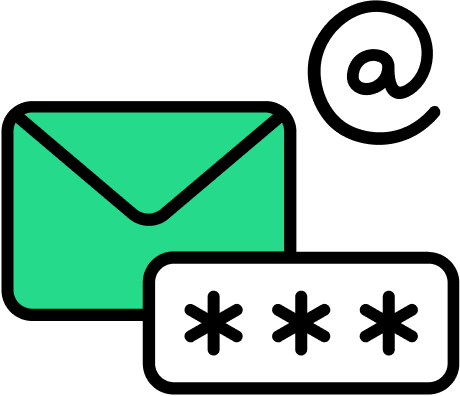
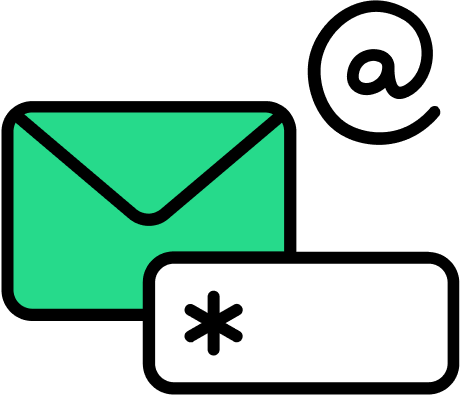
Fix knip

Changed region(s): [[0.7609, 0.7273, 0.913, 0.9091], [0.5783, 0.7273, 0.7304, 0.9091]]

diff --git a/src/keylessBackup/SignInWithEmail.tsx b/src/keylessBackup/SignInWithEmail.tsx
@@ -12,7 +12,7 @@ import Button, { BtnSizes, BtnTypes } from 'src/components/Button'
 import CustomHeader from 'src/components/header/CustomHeader'
 import AppleIcon from 'src/icons/Apple'
 import GoogleIcon from 'src/icons/Google'
-import { email2 } from 'src/images/Images'
+import { email } from 'src/images/Images'
 import KeylessBackupCancelButton from 'src/keylessBackup/KeylessBackupCancelButton'
 import { auth0SignInCompleted, keylessBackupStarted } from 'src/keylessBackup/slice'
 import { KeylessBackupFlow, KeylessBackupOrigin } from 'src/keylessBackup/types'
@@ -204,7 +204,7 @@ function SignInWithEmail({ route }: Props) {
       />
       <ScrollView style={styles.scrollContainer}>
         <View style={styles.imageContainer}>
-          <Image testID="Email" source={email2} />
+          <Image testID="Email" source={email} />
         </View>
         <Text style={styles.title}>{t('signInWithEmail.title')}</Text>
         <Text style={styles.subtitle}>

diff --git a/src/images/Images.ts b/src/images/Images.ts
@@ -13,7 +13,6 @@ export const celoEducation2 = require('src/images/assets/celo-education-2.png')
 export const celoEducation3 = require('src/images/assets/celo-education-3.png')
 export const celoEducation4 = require('src/images/assets/celo-education-4.png')
 export const email = require('src/images/assets/email.png')
-export const email2 = require('src/images/assets/email-2.png')
 export const fiatExchange = require('src/images/assets/fiat-exchange.png')
 export const getVerified = require('src/images/assets/get-verified.png')
 export const learnCelo = require('src/images/assets/learn-celo.png')

diff --git a/src/account/SecuritySubmenu.tsx b/src/account/SecuritySubmenu.tsx
@@ -78,7 +78,7 @@ import { walletAddressSelector } from 'src/web3/selectors'
 
 type Props = NativeStackScreenProps<StackParamList, Screens.SecuritySubmenu>
 
-export const SecuritySubmenu = ({ route, navigation }: Props) => {
+const SecuritySubmenu = ({ route, navigation }: Props) => {
   const { t } = useTranslation()
   const dispatch = useDispatch()
 
